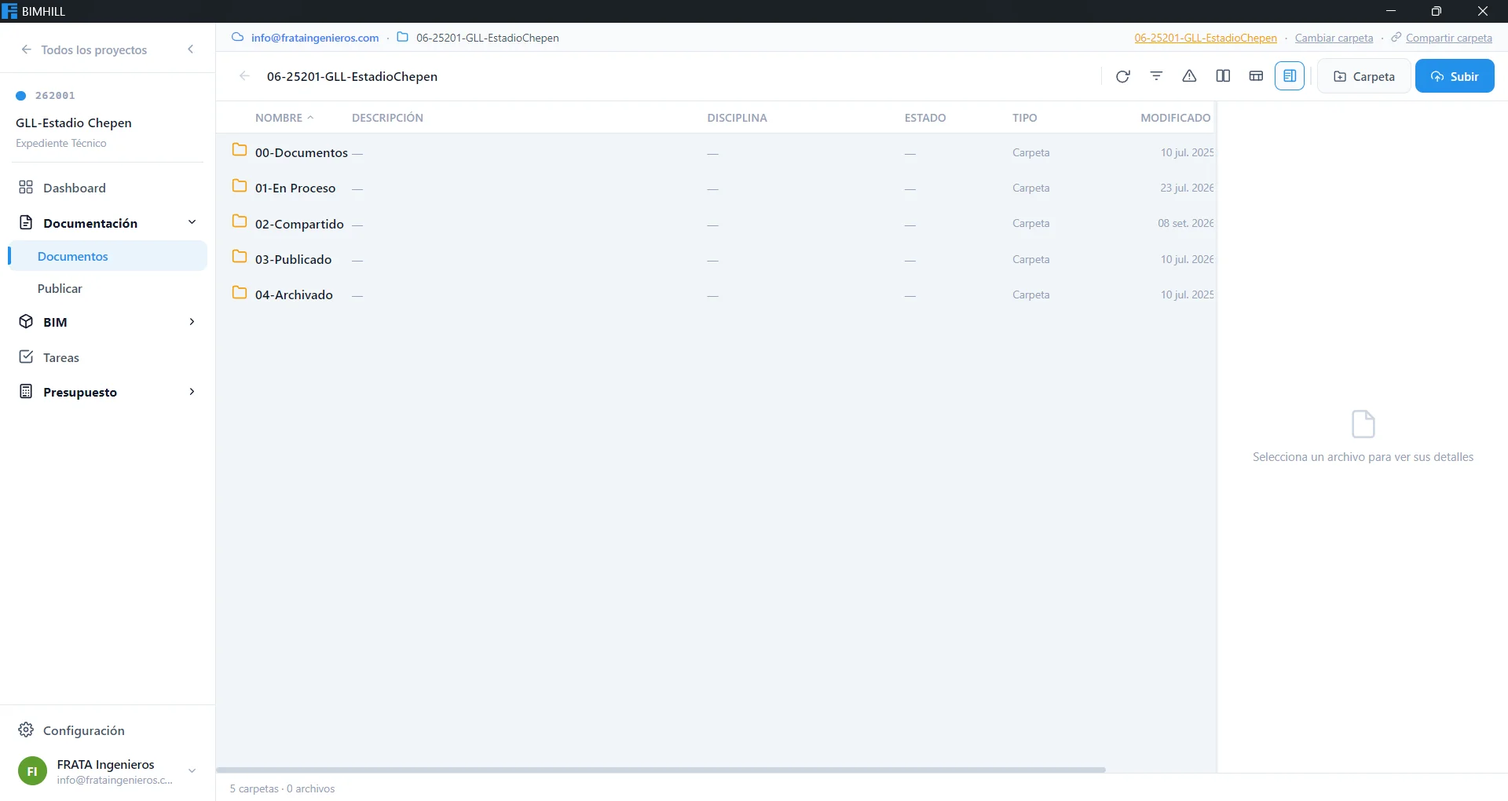
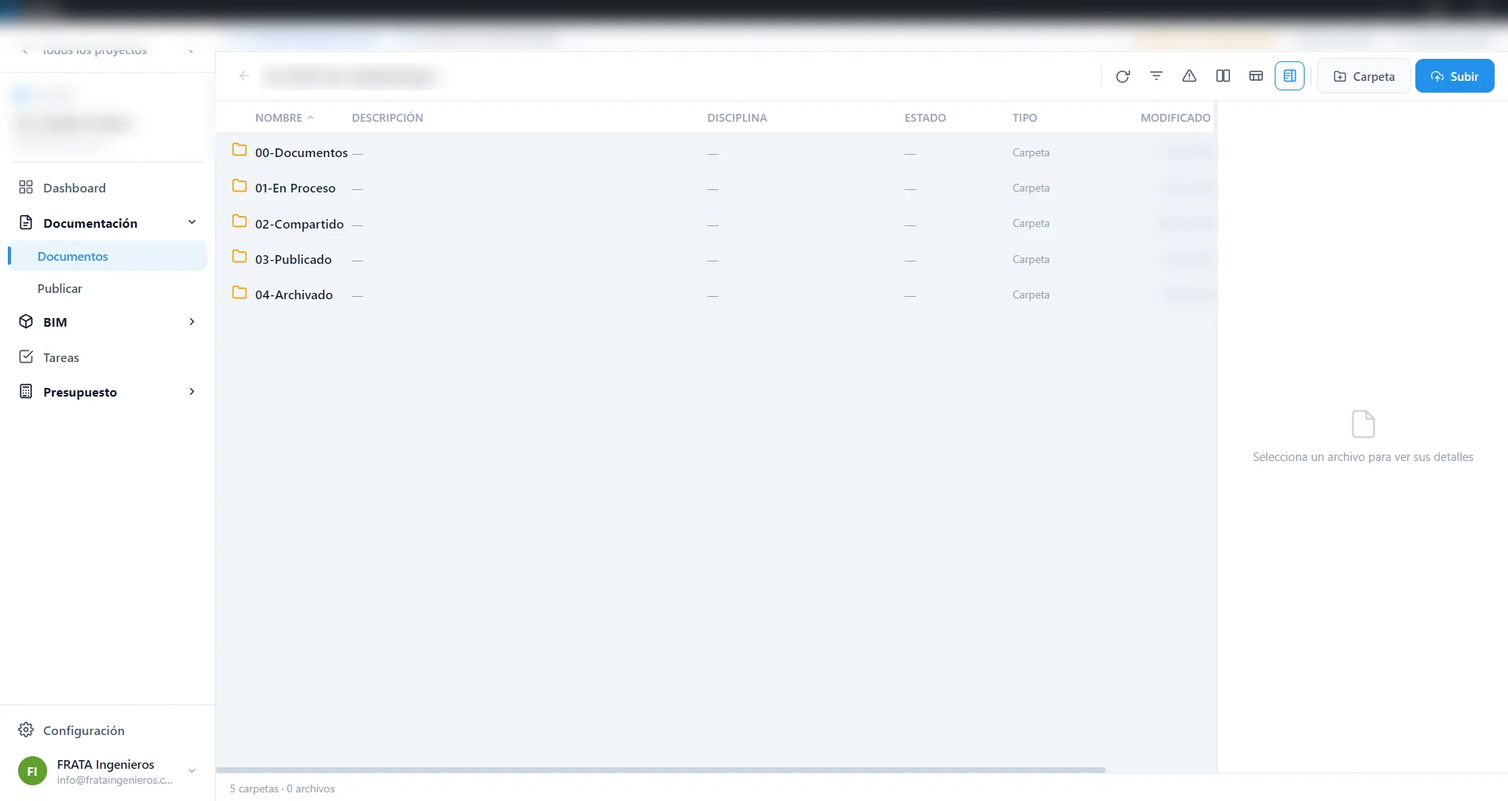
Remove contractual details from the Chepén stadium case
- Drop CUI, client entity, contract modality, deadlines and the list of
  partial deliverables from the blog post, landing page and case study
- Describe Frata's actual role (BIM consultant: modeling, quantity
  take-offs and drawings) and present the engagement as ongoing
- Replace "already built" wording on the home page and hero caption
- Blur project codes, folder paths, user names and revision data in the
  project screenshots

Claude-Session: https://claude.ai/code/session_011vvNzHenhP1YH4ecqCPeFC

Changed region(s): [[0.0, 0.0, 1.0, 0.0608], [0.0, 0.1216, 0.0938, 0.1824], [0.1875, 0.0912, 0.2812, 0.1216]]

diff --git a/src/lib/case-studies.ts b/src/lib/case-studies.ts
@@ -29,27 +29,28 @@ export interface CaseStudy {
 export const caseStudies: CaseStudy[] = [
   {
     slug: "estadio-chepen",
-    client: "Consorcio Olímpico",
-    sector: "Estadios e infraestructura deportiva",
-    sectorEn: "Stadiums and sports infrastructure",
-    service: "Desarrollo de expediente técnico con metodología BIM",
-    serviceEn: "Technical documentation package developed with BIM methodology",
-    technologies: ["Revit", "FrataTools"],
+    client: "Estadio Municipal de Chepén",
+    clientEn: "Chepén Municipal Stadium",
+    sector: "Infraestructura deportiva · inversión pública",
+    sectorEn: "Sports infrastructure · public investment",
+    service: "Consultoría BIM para un expediente técnico de inversión pública",
+    serviceEn: "BIM consulting for a public-investment technical package",
+    technologies: ["Revit", "Navisworks", "Dynamo", "FrataTools"],
     challenge:
-      "El proyecto requería elaborar la documentación técnica del expediente a partir de modelos BIM, asegurando coordinación entre especialidades, precisión en los planos y reducción de reprocesos durante la etapa de diseño.",
+      "El expediente técnico debe elaborarse a partir de modelos BIM, con coordinación entre especialidades, planos consistentes y metrados que puedan verificarse durante la revisión.",
     challengeEn:
-      "The project required producing the technical documentation package directly from BIM models, ensuring coordination between disciplines, drawing accuracy and fewer reworks during the design stage.",
+      "The technical package has to be produced from BIM models, with coordination between disciplines, consistent drawings and quantity take-offs that can be checked during review.",
     solution:
-      "FRATA INGENIEROS conformó un equipo remoto especializado, dedicado exclusivamente al desarrollo BIM del proyecto. Este equipo trabajó de forma coordinada con los especialistas diseñadores, transformando sus bosquejos, criterios técnicos y esquemas iniciales en modelos BIM disciplinarios y documentación técnica lista para expediente. Este flujo permitió evitar el proceso tradicional de elaborar primero planos en CAD y luego modelarlos en BIM, reduciendo tiempos, duplicidad de trabajo y riesgos de incompatibilidades.",
+      "Como consultores BIM, asumimos el modelado BIM de las especialidades, la extracción de metrados y la generación de planos durante la elaboración del expediente. Trabajamos junto a los especialistas diseñadores, convirtiendo sus criterios técnicos en modelos LOD 3 hasta el acero de refuerzo, con add-ins propios para llenar la información del modelo y exportar los metrados.",
     solutionEn:
-      "FRATA INGENIEROS assembled a dedicated remote team focused exclusively on the project's BIM development. The team worked side by side with the design specialists, turning their sketches, technical criteria and early schematics into discipline BIM models and documentation ready for the package. This flow skipped the traditional CAD-first process, cutting time, duplicated work and incompatibility risks.",
+      "As BIM consultants, we took on the BIM modeling of the disciplines, the quantity take-offs and the drawing production while the package is being developed. We work alongside the design specialists, turning their technical criteria into LOD 3 models down to the reinforcing steel, with our own add-ins to fill in model data and export quantities.",
     result:
-      "Se desarrolló el expediente técnico bajo metodología BIM, logrando una documentación más ordenada, coordinada y trazable. El entregable final fue compatibilizado entre especialidades, reduciendo interferencias de diseño y fortaleciendo la calidad técnica del proyecto.",
+      "El servicio se encuentra en ejecución. Los planos y metrados se generan desde los modelos, con trazabilidad por elemento, lo que facilita mantener la documentación coordinada a medida que el diseño evoluciona.",
     resultEn:
-      "The technical package was delivered under BIM methodology, with cleaner, coordinated and traceable documentation. The final deliverable was reconciled across disciplines, reducing design clashes and strengthening the project's technical quality.",
+      "The engagement is ongoing. Drawings and quantities are generated from the models with element-level traceability, which keeps the documentation coordinated as the design evolves.",
     metrics: [
-      { value: "100%", label: "del expediente generado desde el modelo", labelEn: "of the package generated from the model" },
-      { value: "0", label: "planos CAD previos al modelo", labelEn: "CAD drawings before the model" },
+      { value: "LOD 3", label: "modelado hasta el acero de refuerzo", labelEn: "modeling down to reinforcing steel" },
+      { value: "3", label: "frentes a cargo: modelado, metrados y planos", labelEn: "workstreams we own: modeling, quantities and drawings" },
     ],
     image: "/images/blog/estadio-chepen/render-cabina-prensa.webp",
     articleHref: "/blog/expediente-tecnico-obra-publica-bim",

diff --git a/src/app/expedientes-tecnicos-bim/page.tsx b/src/app/expedientes-tecnicos-bim/page.tsx
@@ -89,8 +89,8 @@ const FAQ = [
     a: "Modelos nativos de Revit e IFC, planos en PDF y DWG, planillas de metrados en Excel y el resto de documentos del expediente en los formatos que pidan los Términos de Referencia.",
   },
   {
-    q: "¿Pueden trabajar con entregables parciales o Fast Track?",
-    a: "Sí. En el Estadio de Chepén el expediente se organizó en informes parciales ejecutables, cada uno con su modelo, planos, metrados y presupuesto, para que la obra pudiera empezar por tramos.",
+    q: "¿Pueden trabajar por entregables parciales?",
+    a: "Sí. Organizamos los modelos, planos y metrados por entregable, de modo que cada parte del expediente pueda revisarse y aprobarse por separado según lo que pidan los Términos de Referencia.",
   },
 ];
 
@@ -128,7 +128,7 @@ export default function ExpedientesTecnicosBimPage() {
               <Link href="/#contact">Cotizar un expediente</Link>
             </Button>
             <Link href="/blog/expediente-tecnico-obra-publica-bim" className="link-more text-lg">
-              Ver el caso del Estadio de Chepén
+              Ver cómo trabajamos en el Estadio de Chepén
               <ChevronRight className="h-4 w-4" />
             </Link>
           </div>
@@ -224,14 +224,14 @@ export default function ExpedientesTecnicosBimPage() {
             </div>
           </Reveal>
           <Reveal>
-            <Eyebrow>Caso real</Eyebrow>
+            <Eyebrow>Proyecto en curso</Eyebrow>
             <h2 className="mt-3 font-headline text-display-md text-foreground">
               Estadio Municipal de Chepén, La Libertad
             </h2>
             <p className="mt-5 text-[1.0625rem] leading-relaxed text-muted-foreground">
-              Expediente técnico de inversión pública para el Gobierno Regional La Libertad, contratado llave en mano
-              con enfoque Fast Track y uso obligatorio de BIM. Lo organizamos en informes parciales ejecutables, con
-              modelado LOD 3 hasta el acero de refuerzo, planos y metrados generados desde Revit.
+              En este expediente técnico de inversión pública participamos como consultores BIM: asumimos el modelado
+              BIM de las especialidades, la extracción de metrados y la generación de planos durante la elaboración
+              del expediente. El servicio se encuentra en ejecución.
             </p>
             <ul className="mt-6 space-y-3">
               {[
@@ -246,7 +246,7 @@ export default function ExpedientesTecnicosBimPage() {
               ))}
             </ul>
             <Link href="/blog/expediente-tecnico-obra-publica-bim" className="link-more mt-7 text-[1.0625rem]">
-              Leer el caso completo
+              Ver cómo trabajamos
               <ChevronRight className="h-4 w-4" />
             </Link>
           </Reveal>

diff --git a/src/content/home.ts b/src/content/home.ts
@@ -115,7 +115,7 @@ export const homeContent: Record<Locale, HomePageContent> = {
     },
     projects: {
       eyebrow: "Proyectos",
-      heading: "Trabajo que ya está construido.",
+      heading: "Proyectos en los que trabajamos.",
       viewAllCta: "Ver todos los casos",
     },
     process: {
@@ -224,7 +224,7 @@ export const homeContent: Record<Locale, HomePageContent> = {
     },
     projects: {
       eyebrow: "Projects",
-      heading: "Work that is already built.",
+      heading: "Projects we work on.",
       viewAllCta: "View all case studies",
     },
     process: {
@@ -333,7 +333,7 @@ export const homeContent: Record<Locale, HomePageContent> = {
     },
     projects: {
       eyebrow: "Projekte",
-      heading: "Arbeit, die bereits gebaut ist.",
+      heading: "Projekte, an denen wir arbeiten.",
       viewAllCta: "Alle Referenzen ansehen",
     },
     process: {
@@ -443,7 +443,7 @@ export const homeContent: Record<Locale, HomePageContent> = {
     },
     projects: {
       eyebrow: "Projets",
-      heading: "Un travail déjà construit.",
+      heading: "Les projets sur lesquels nous travaillons.",
       viewAllCta: "Voir toutes les études de cas",
     },
     process: {
@@ -552,7 +552,7 @@ export const homeContent: Record<Locale, HomePageContent> = {
     },
     projects: {
       eyebrow: "Progetti",
-      heading: "Lavoro già costruito.",
+      heading: "Progetti su cui lavoriamo.",
       viewAllCta: "Vedi tutti i casi studio",
     },
     process: {
@@ -661,7 +661,7 @@ export const homeContent: Record<Locale, HomePageContent> = {
     },
     projects: {
       eyebrow: "Projetos",
-      heading: "Trabalho que já está construído.",
+      heading: "Projetos em que trabalhamos.",
       viewAllCta: "Ver todos os casos",
     },
     process: {
@@ -770,7 +770,7 @@ export const homeContent: Record<Locale, HomePageContent> = {
     },
     projects: {
       eyebrow: "Проекты",
-      heading: "Работа, которая уже построена.",
+      heading: "Проекты, над которыми мы работаем.",
       viewAllCta: "Смотреть все кейсы",
     },
     process: {
@@ -875,7 +875,7 @@ export const homeContent: Record<Locale, HomePageContent> = {
     },
     projects: {
       eyebrow: "项目",
-      heading: "已经落地的实际项目。",
+      heading: "我们参与的项目。",
       viewAllCta: "查看全部案例",
     },
     process: {

diff --git a/src/components/pages/home-view.tsx b/src/components/pages/home-view.tsx
@@ -31,14 +31,14 @@ function localizedCase(cs: CaseStudy, locale: Locale) {
 
 // Caption under the hero render, linking to the write-up of that project.
 const HERO_CAPTION: Record<Locale, string> = {
-  es: "Estadio Municipal de Chepén · expediente técnico desarrollado en BIM",
-  en: "Chepén Municipal Stadium · technical package developed in BIM",
-  de: "Stadion von Chepén · Ausführungsplanung in BIM",
-  fr: "Stade municipal de Chepén · dossier technique réalisé en BIM",
-  it: "Stadio municipale di Chepén · progetto esecutivo sviluppato in BIM",
-  pt: "Estádio Municipal de Chepén · projeto executivo desenvolvido em BIM",
-  ru: "Муниципальный стадион Чепен · рабочая документация в BIM",
-  zh: "Chepén 市立体育场 · 采用 BIM 完成的施工图设计",
+  es: "Estadio Municipal de Chepén · expediente técnico en desarrollo con BIM",
+  en: "Chepén Municipal Stadium · technical package in development with BIM",
+  de: "Stadion von Chepén · Ausführungsplanung in Arbeit mit BIM",
+  fr: "Stade municipal de Chepén · dossier technique en cours avec le BIM",
+  it: "Stadio municipale di Chepén · progetto esecutivo in corso con il BIM",
+  pt: "Estádio Municipal de Chepén · projeto executivo em desenvolvimento com BIM",
+  ru: "Муниципальный стадион Чепен · рабочая документация в разработке в BIM",
+  zh: "Chepén 市立体育场 · 正在采用 BIM 编制施工图设计",
 };
 
 const TEAM_PHOTO_ALT: Record<Locale, string> = {

diff --git a/src/blog/posts/expediente-tecnico-obra-publica-bim.md b/src/blog/posts/expediente-tecnico-obra-publica-bim.md
@@ -1,9 +1,9 @@
 ---
-title: "Expediente técnico de obra pública con BIM: nuestra experiencia en el Estadio de Chepén"
+title: "Expediente técnico de obra pública con BIM: cómo trabajamos en el Estadio de Chepén"
 date: "2026-10-28"
 author: "Frata Ingenieros"
 image: "/images/blog/estadio-chepen/render-tribuna.webp"
-summary: "Cómo elaboramos el expediente técnico de un estadio con BIM: modelado LOD 3 hasta el acero de refuerzo, planos generados desde Revit, metrados automatizados entre Revit, Excel y Delphin, auditoría de modelos y nuestro propio entorno común de datos."
+summary: "Como consultores BIM de un expediente técnico de inversión pública, asumimos el modelado BIM, la extracción de metrados y la generación de planos. Así lo hacemos: modelado LOD 3 hasta el acero de refuerzo, planos desde Revit, metrados entre Revit, Excel y Delphin, auditoría de modelos y nuestro propio entorno común de datos."
 keywords:
   - expedientes técnicos de inversión pública con BIM
   - expedientes técnicos públicos con BIM
@@ -12,25 +12,23 @@ keywords:
   - Guía Nacional BIM
 ---
 
-Elaborar un **expediente técnico con BIM** significa construir primero un modelo digital coordinado de todas las especialidades y obtener de él los planos, los metrados y el presupuesto, en lugar de dibujar y metrar cada especialidad por separado. El resultado son planos compatibles, metrados trazables y menos adicionales en obra. En este artículo contamos **cómo lo hacemos en la práctica**, con un proyecto real de inversión pública: el expediente técnico del **"Mejoramiento del servicio deportivo de competencia en el Estadio Municipal Juan Noriega Salazar"**, en el distrito de Chepén, La Libertad (CUI 2657134), para el Gobierno Regional La Libertad.
+Elaborar un **expediente técnico con BIM** significa construir primero un modelo digital coordinado de todas las especialidades y obtener de él los planos, los metrados y el presupuesto, en lugar de dibujar y metrar cada especialidad por separado. El objetivo son planos compatibles, metrados trazables y menos adicionales en obra.
 
-## El reto: diseñar y construir en paralelo
+En este artículo contamos **cómo lo hacemos en la práctica**, con un proyecto de inversión pública en curso: el expediente técnico del **Estadio Municipal de Chepén**, en La Libertad.
 
-El proyecto se contrató bajo la modalidad **llave en mano con enfoque Fast Track**, es decir, el diseño y la obra avanzan superpuestos. Los Términos de Referencia exigieron el uso obligatorio de **BIM** en el expediente técnico y **Last Planner System** durante la construcción, con plazos de 180 días calendario para el expediente técnico y 360 días para la obra.
+## Nuestro rol: consultores BIM del expediente
 
-Para que la construcción pudiera arrancar por tramos, el expediente se organizó en **entregables ejecutables**, cada uno con su propio modelo, planos, metrados y presupuesto:
+En este proyecto participamos como **consultores BIM**. Durante la elaboración del expediente técnico asumimos tres frentes completos:
 
-1. **Informe parcial 01**: demolición de la infraestructura existente y cerco perimétrico.
-2. **Informe parcial 02**: Tribuna Oriente, con graderías, servicios higiénicos, gimnasio, oficinas y ligas deportivas.
-3. **Informe parcial 03**: Tribuna Occidente, con áreas para deportistas, oficinas y palco VIP.
-4. **Informe parcial 04**: Tribuna Norte, zona de prensa, campo de juego de 105 × 68 m, pista atlética, cisterna, obras exteriores, equipamiento y mobiliario.
-5. **Informe final**: expediente consolidado.
+- El **modelado BIM** de todas las especialidades.
+- La **extracción de metrados** desde los modelos.
+- La **generación de planos** a partir de los modelos.
 
-Con plazos así de ajustados, no hay margen para planos incompatibles ni para metrados que se rehacen a mano en cada revisión. Por eso todo el proceso se apoyó en el modelo.
+El servicio **se encuentra en ejecución**, así que lo que sigue describe la forma en que estamos trabajando, no un proyecto cerrado.
 
 ## Un Plan de Ejecución BIM alineado a la Guía Nacional BIM
 
-Antes de modelar se aprobó el **Plan de Ejecución BIM (BEP)**, alineado a la **Guía Nacional BIM** del MEF y a la **NTP-ISO 19650**. En él se definieron:
+El trabajo se rige por un **Plan de Ejecución BIM (BEP)** alineado a la **Guía Nacional BIM** del MEF y a la **NTP-ISO 19650**. En él se definen:
 
 - Los **usos BIM**: levantamiento de condiciones existentes, diseño de especialidades, generación de documentación, coordinación mediante un entorno común de datos, estimación de cantidades y detección de interferencias.
 - El **nivel de información necesaria (LOIN)** por entregable, con su nivel de detalle gráfico (LOD) y de información no gráfica (LOI).
@@ -39,7 +37,7 @@ Antes de modelar se aprobó el **Plan de Ejecución BIM (BEP)**, alineado a la *
 
 ## Modelado LOD 3, hasta el acero de refuerzo
 
-Todas las especialidades se modelaron en **Autodesk Revit** con un nivel de detalle **LOD 3**, es decir, elementos representados de forma precisa: arquitectura, estructuras, instalaciones sanitarias, eléctricas, mecánicas, comunicaciones y sistema contra incendios. La topografía y las obras exteriores se trabajaron con **Civil 3D**.
+Modelamos las especialidades en **Autodesk Revit** con un nivel de detalle **LOD 3**, es decir, con elementos representados de forma precisa: arquitectura, estructuras e instalaciones.
 
 En concreto armado llevamos el modelo **hasta el acero de refuerzo**. Eso permite revisar en 3D la congestión de armaduras en nudos y graderías, y obtener del modelo las cantidades de acero que de otra forma se calculan a mano en planillas de corte y doblado.
 
@@ -51,11 +49,11 @@ Modelar el refuerzo a mano en Revit es muy lento, así que lo automatizamos con 
 
 ## Toda la información 2D sale del modelo
 
-En este proyecto **no se dibujan planos aparte**. Plantas, cortes, elevaciones, detalles, cuadros y láminas de todas las especialidades se generan desde los modelos de Revit, con plantillas de vista, filtros por especialidad y membretes estandarizados. Si el modelo cambia, los planos cambian con él, y la compatibilidad entre especialidades viene del modelo federado y no de la revisión manual de láminas.
+**No dibujamos planos aparte**. Plantas, cortes, elevaciones, detalles, cuadros y láminas se generan desde los modelos de Revit, con plantillas de vista, filtros por especialidad y membretes estandarizados. Si el modelo cambia, los planos cambian con él, y la compatibilidad entre especialidades viene del modelo federado y no de la revisión manual de láminas.
 
 ![Lámina de planta de arquitectura generada desde el modelo de Revit](/images/blog/estadio-chepen/planos-revit-arquitectura.webp)
 
-Cada lámina se codifica según la nomenclatura del Plan de Ejecución BIM. Por ejemplo, *2657134-COL-003-N01-PLA-ARQ-0003* identifica el proyecto, el autor, el volumen, el nivel, el tipo de documento, la especialidad y el número correlativo. Además, cada lámina lleva su control de revisiones (P01, P02, P03…) dentro del mismo modelo. Así, el juego de planos de cada informe parcial queda ordenado y es fácil de rastrear en el entorno común de datos.
+Cada lámina se codifica según la nomenclatura del Plan de Ejecución BIM, que identifica el proyecto, el autor, el volumen, el nivel, el tipo de documento, la especialidad y un número correlativo. Además, cada lámina lleva su control de revisiones dentro del mismo modelo, de modo que el juego de planos queda ordenado y es fácil de rastrear en el entorno común de datos.
 
 ## Add-ins propios para llenar la información del modelo
 
@@ -71,22 +69,22 @@ Un modelo útil para el expediente no solo necesita geometría: cada elemento de
 
 Esta es la parte donde más tiempo se ahorra. Con nuestra aplicación **BIM 5D** para Revit, cada partida del presupuesto se vincula a los elementos del modelo que le corresponden y se define cómo se mide: qué parámetros se usan, cómo se agrupan (por bloque, nivel, eje o ambiente) y qué columnas de la planilla se llenan.
 
-![Aplicación BIM 5D vinculando las partidas del presupuesto con el modelo de Revit](/images/blog/estadio-chepen/bim-5d-metrados.webp)
+![Aplicación BIM 5D vinculando las partidas con el modelo de Revit](/images/blog/estadio-chepen/bim-5d-metrados.webp)
 
 El flujo funciona así:
 
-1. **Partidas**: se carga la estructura de partidas del presupuesto (por ejemplo, *03.03.01.01 Muro de ladrillo KK de soga C:A 1:4* o *03.03.02.01.03 Tarrajeo en muros exteriores C:A 1:5*).
+1. **Partidas**: se carga la estructura de partidas (por ejemplo, *muro de ladrillo de soga* o *tarrajeo en muros exteriores*).
 2. **Configuración del *take-off***: para cada partida se indica qué elementos y parámetros alimentan el metrado y cómo se agrupan.
 3. **Exportación a Excel**: la aplicación escribe el metrado directamente en el libro de metrados, **en el formato estándar de planilla de metrados de obra pública**: ítem, descripción, unidad, número de veces, largo, ancho, alto, parcial y total, con el detalle por ubicación.
-4. **Presupuesto en Delphin**: los metrados se trasladan a **Delphin**, donde se arman el presupuesto, los análisis de precios unitarios y las fórmulas polinómicas del expediente.
+4. **Presupuesto en Delphin**: los metrados se trasladan a **Delphin**, donde se trabajan el presupuesto y los análisis de precios unitarios.
 
-Este es un ejemplo real de la planilla exportada desde Revit:
+Así se ve una planilla exportada desde Revit:
 
 ![Planilla de metrados exportada desde Revit, con el ID de cada elemento](/images/blog/estadio-chepen/metrado-excel-ids.webp)
 
-La partida *03.02.03.02.01 Concreto premezclado en muro de contención f'c = 280 kg/cm²* suma **106.65 m³**. El detalle se organiza por componente (cimentación), sector, tipo de elemento (muro de contención, zapata) y código de cada muro (M-01, M-03, M-04…). Cada línea es un elemento del modelo, con su volumen, y en la columna de la derecha va su **ID de Revit**. Con ese número, cualquiera puede ubicar el elemento exacto en el modelo con *Select by ID* y verificar la cantidad.
+El detalle se organiza por componente, sector, tipo de elemento y código de cada elemento. Cada línea es un elemento del modelo, con su cantidad, y en la columna de la derecha va su **ID de Revit**. Con ese número, cualquiera puede ubicar el elemento exacto en el modelo con *Select by ID* y verificar la cantidad.
 
-Como cada cantidad sale de un elemento del modelo, el metrado es **trazable**. El supervisor puede preguntar de dónde sale un número y la respuesta está en el modelo, no en una hoja de cálculo hecha a mano. Cuando el diseño cambia, se actualiza el modelo y se vuelve a exportar, sin rehacer planillas. Las partidas que no se pueden obtener del modelo se metran de forma manual, y el BEP deja definido cuáles son.
+Como cada cantidad sale de un elemento del modelo, el metrado es **trazable**: si alguien pregunta de dónde sale un número, la respuesta está en el modelo y no en una hoja de cálculo hecha a mano. Cuando el diseño cambia, se actualiza el modelo y se vuelve a exportar, sin rehacer planillas. Las partidas que no se pueden obtener del modelo se metran de forma manual, y el BEP deja definido cuáles son.
 
 ## Auditoría de la información con Data Explorer
 
@@ -94,29 +92,29 @@ Un metrado automático solo es tan bueno como la información del modelo. Por es
 
 ![Data Explorer: auditoría de parámetros del modelo en Revit](/images/blog/estadio-chepen/data-explorer.webp)
 
-Data Explorer muestra en una tabla los elementos de la vista activa o de las categorías elegidas, con sus parámetros del proyecto (bloque, nivel, sector, elemento, código, número y nombre de partida, metrado). Se pueden filtrar, agrupar y guardar configuraciones de auditoría, por ejemplo una específica para el proyecto. Así se detectan rápidamente elementos sin partida, parámetros vacíos o valores inconsistentes antes de que lleguen al presupuesto.
+Data Explorer muestra en una tabla los elementos de la vista activa o de las categorías elegidas, con sus parámetros del proyecto (bloque, nivel, sector, elemento, código, número y nombre de partida, metrado). Se pueden filtrar, agrupar y guardar configuraciones de auditoría. Así se detectan rápidamente elementos sin partida, parámetros vacíos o valores inconsistentes antes de que lleguen al presupuesto.
 
 Esta auditoría se complementa con:
 
-- La **detección de interferencias** en Navisworks Manage sobre el modelo federado, con una tolerancia de 2.5 cm y una matriz que clasifica cada conflicto por gravedad.
+- La **detección de interferencias** en Navisworks Manage sobre el modelo federado, con una matriz que clasifica cada conflicto por gravedad.
 - El **control de errores de modelado** (elementos duplicados, discontinuos o mal ubicados), registrado en nuestra herramienta interna *Frata Issues* hasta su cierre.
 - Un **formato de control de calidad** que valida cada modelo antes de entregarlo.
 
 ## Nuestro propio entorno común de datos: BIMHILL
 
-La norma ISO 19650 pide gestionar la información en un **entorno común de datos (CDE)**. En lugar de depender de una plataforma con licencias por usuario, en este proyecto usamos **BIMHILL**, el CDE desarrollado por Frata Ingenieros.
+La norma ISO 19650 pide gestionar la información en un **entorno común de datos (CDE)**. Para eso usamos **BIMHILL**, el CDE desarrollado por Frata Ingenieros.
 
 ![BIMHILL, el entorno común de datos de Frata Ingenieros](/images/blog/estadio-chepen/bimhill-cde.webp)
 
-BIMHILL organiza la información del proyecto según los estados de la ISO 19650 (**En proceso, Compartido, Publicado y Archivado**) y administra la nomenclatura y los metadatos de cada documento y modelo. Reúne en un solo lugar la documentación, los modelos BIM, las tareas del equipo y el presupuesto. El almacenamiento y el historial de versiones se apoyan en Google Drive, y la Entidad puede revisar la información con un enlace de solo lectura, sin cuentas ni licencias adicionales.
+BIMHILL organiza la información del proyecto según los estados de la ISO 19650 (**En proceso, Compartido, Publicado y Archivado**) y administra la nomenclatura y los metadatos de cada documento y modelo. Reúne en un solo lugar la documentación, los modelos BIM, las tareas del equipo y el presupuesto, y permite compartir la información en modo de solo lectura, sin cuentas ni licencias adicionales.
 
-## Lo que ganamos
+## Qué aporta este enfoque
 
 - **Planos compatibles** entre especialidades, porque todos salen de modelos coordinados.
 - **Metrados trazables** en el formato que exige la obra pública, listos para el presupuesto en Delphin.
 - **Menos trabajo manual**: los add-ins llenan la información y la exportación a Excel es automática.
-- **Información auditada** antes de cada entrega, con menos observaciones de la supervisión.
-- **Un solo lugar** para toda la información del proyecto, con control de versiones y acceso para la Entidad.
+- **Información auditada** antes de cada entrega.
+- **Un solo lugar** para toda la información del proyecto, con control de versiones.
 
 ## ¿Tienes un expediente técnico de obra pública con requisitos BIM?
 
